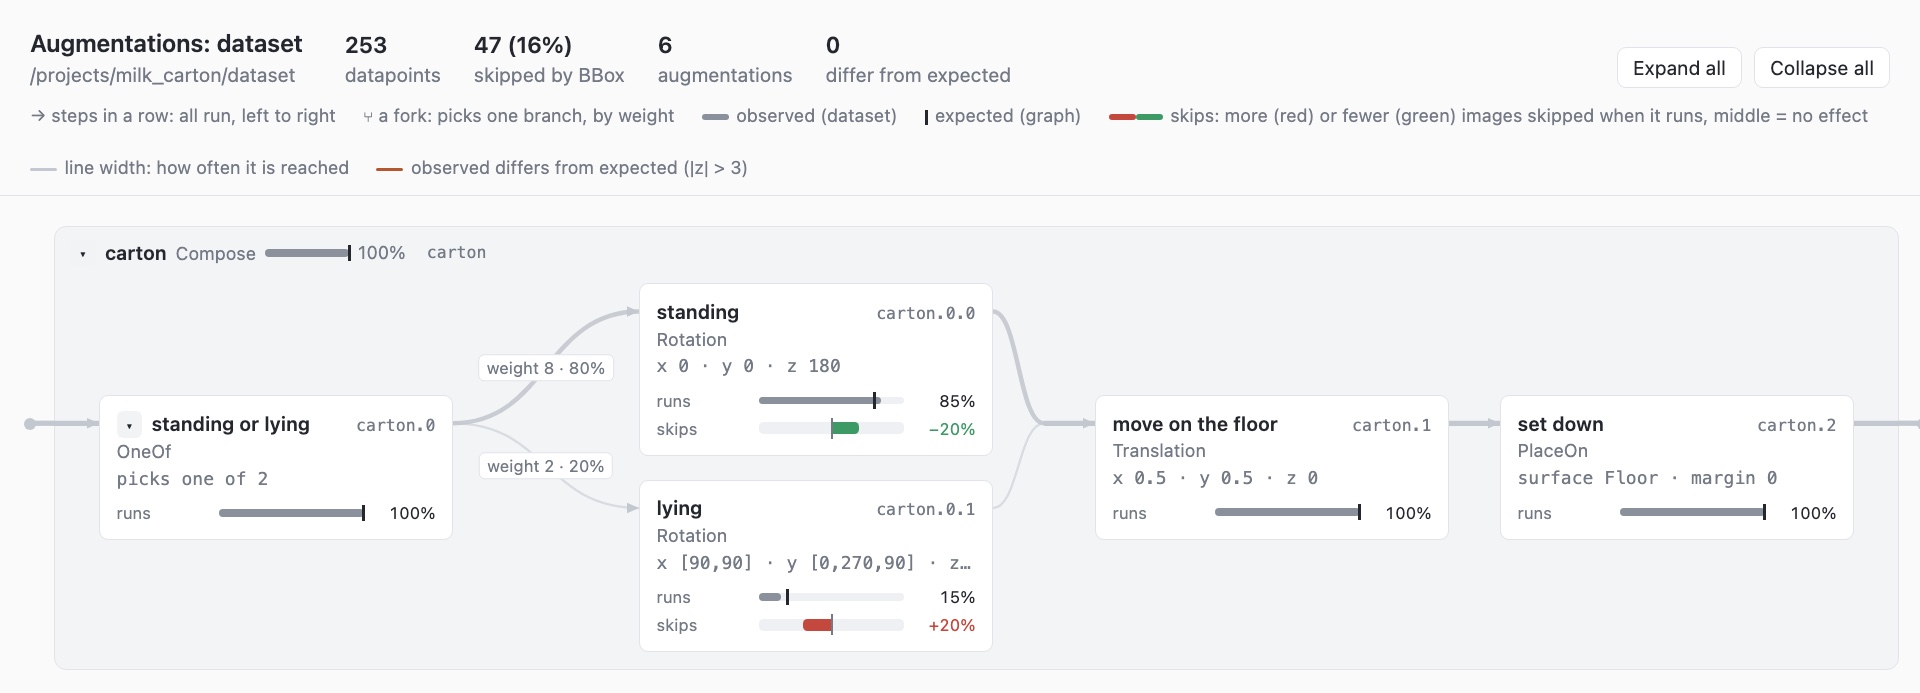
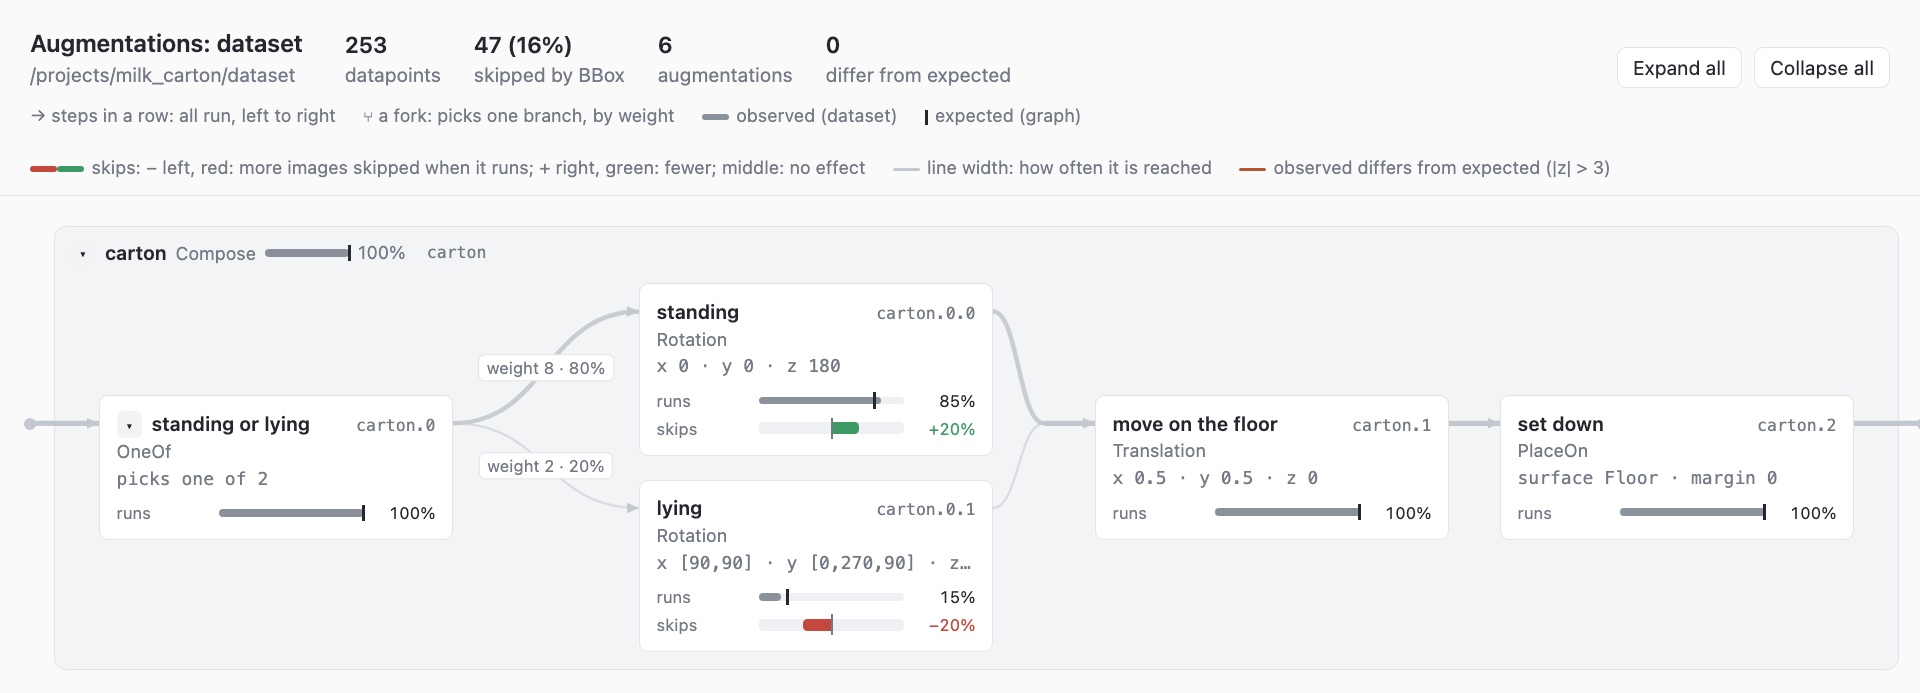
Report: skips signed like a number line, minus on the left
More skips when an augmentation runs is red, to the left, with a minus; fewer is green,
to the right, with a plus. The Quick start report screenshot and its text follow.

diff --git a/blendmentation/export/report.html b/blendmentation/export/report.html
@@ -120,7 +120,7 @@ body.preview .report-only, body:not(.preview) .preview-only, body:not(.skips) .s
   <span>⑂ a fork: picks one branch, by weight</span>
   <span class="report-only"><i style="background: var(--bar)"></i>observed (dataset)</span>
   <span class="report-only"><i class="tick" style="background: var(--tick)"></i>expected (graph)</span>
-  <span class="skips-only"><i style="background: var(--more)"></i><i style="background: var(--fewer); margin-left: -5px"></i>skips: more (red) or fewer (green) images skipped when it runs, middle = no effect</span>
+  <span class="skips-only"><i style="background: var(--more)"></i><i style="background: var(--fewer); margin-left: -5px"></i>skips: − left, red: more images skipped when it runs; + right, green: fewer; middle: no effect</span>
   <span class="preview-only"><i style="background: var(--bar)"></i>probability it runs, per object of a call</span>
   <span><i style="background: var(--edge); height: 2px"></i>line width: how often it is reached</span>
   <span class="report-only"><i style="background: var(--warn); height: 2px"></i>observed differs from expected (|z| &gt; 3)</span>
@@ -175,8 +175,9 @@ function skipRates(s) {
   }
   return {whenRuns, whenNot, differs, ran, notRan};
 }
-// a bar centered on 0: red to the left when the datapoint was skipped more often with the
-// augmentation than without it, green to the right when less often; half the bar is 50 points
+// a bar centered on 0, signed like a number line: red to the left (−) when the datapoint was
+// skipped more often with the augmentation than without it, green to the right (+) when less
+// often; half the bar is 50 points
 const SKIP_SCALE = 0.5;
 function skipBar(rates) {
   const row = document.createDocumentFragment(), diff = rates.whenRuns - rates.whenNot;
@@ -188,7 +189,7 @@ function skipBar(rates) {
     " of the times it didn't" + (rates.differs ? "" : " (within chance)");
   const points = Math.round(Math.abs(diff) * 100);
   row.append(text("span", "label", "skips"), bar,
-             text("span", "num" + (rates.differs ? " " + kind : ""), (diff > 0 ? "+" : diff < 0 ? "−" : "") + points + "%"));
+             text("span", "num" + (rates.differs ? " " + kind : ""), (diff > 0 ? "−" : diff < 0 ? "+" : "") + points + "%"));
   return row;
 }
 function flags(node) {
@@ -563,9 +564,9 @@ function openSkips() {
     }
   }
   panel.append(table, text("div", "note", "A datapoint is skipped as a whole. On a card, the skips bar compares how often the datapoint was " +
-    "skipped when that augmentation ran and when it didn't: red to the left means more skips when it runs (it causes " +
-    "them, so the dataset has less of its results than the graph expects), green to the right fewer, the middle no " +
-    "effect. Faded: within chance."))
+    "skipped when that augmentation ran and when it didn't: red to the left (−) means more skips when it runs (it " +
+    "causes them, so the dataset has less of its results than the graph expects), green to the right (+) fewer, the " +
+    "middle no effect. Faded: within chance."))
   panel.classList.add("open");
 }
 

diff --git a/CLAUDE.md b/CLAUDE.md
@@ -97,7 +97,7 @@ The subpackages:
 - **generating**: the `bpy` layer is `bpy_generating.py` (classes, projection, `Frame`, the step functions, `generate`) and the modules it imports by name (`bpy_ids.render_ids(...)`): `bpy_images.py` (the OpenImageIO import, Render Result / EXR input and output, `PASSES`), `bpy_instances.py` (reading `Instances` from the depsgraph), `bpy_ids.py` (the id renders) and `drawing.py` (numpy only: preview drawing, `FONT`, `CLASS_COLORS`, background noise and compositing). `Compose(steps, path, resolution)` generates one datapoint per call (`preview(factor)` at reduced resolution); it returns `False` when a step skips the datapoint. Files are `<path>/<index>...`, where the index is the next free leading number in the folder (`next_index`), so output can be resumed.
   - **Steps:** `BBox(classes, iou_deconflict=None, max_truncation=None, max_occlusion=None, allow_empty=False)`, `Pose(classes)`, `RotationMatrix(objects)`, `OutputField(name, data_path, objects=None)`, `CameraData()`, `Keypoints(points)`, `Augmentations(composes, graph_file="augmentations.json")`, `Render(file_format="PNG")`, `Background(weights=None, noise_size=(1, 8), images_path=None)`, `BBoxImage(file_format="PNG", line_width=2, show_class=True)`, `AOVToImage(names, file_format="OPEN_EXR", skip_empty=False)`, `Passes(names, file_format="OPEN_EXR", skip_empty=False)`, `Segmentation(classes, per="instance"|"class"|"both", skip_empty=False, full_masks=False)`, `SegmentationImage(file_format="PNG", opacity=0.5, line_width=2, show_class=True)`. Each step takes its own objects; `Compose` has none.
   - **Classes:** `classes` is `{class name: [instances]}`, where an instance is an object or a sublist of objects labeled as one (bbox = union of members, one mask). An `Instances(parent, of)` entry (duck-typed by `is_instances`: `parent` and `of`) expands per frame (`frame.instance_groups`, needs the frame, so `to_instances(classes, frame)`; without a frame it is only checked) into one group per top-level depsgraph instance of `parent` (`instance_members`: `persistent_id` is the path innermost first, padded with `INSTANCE_PATH_END`; its last entry is the top-level instance's `id` attribute when it has one (Distribute Points on Faces adds it), otherwise its index, so while reading, a temporary NODES modifier (`index_id_nodes`) sets `id` to the index; it is removed before any render, so `id`-based randomness is unchanged) whose sources meet `of`. A geometry instance (`instance_object` is the parent: Object Info without As Instance, or nodes after the instancing that edit the meshes, like Smooth by Angle) has no source object; its mesh keeps the source mesh's name, so `read_instance_members` finds the objects using a mesh of that name, and `None` when none does; `instance_groups` raises when `of` matched nothing and some instance has no source. The group holds `InstanceMember`s that stand in for objects (`name`, `type`, `matrix_world`, local `coords` read during the depsgraph iteration, `parent`, `source`, `top`); `in_render` follows the parent. Groups with members can't use the Workbench or Object Index renders (instances share their source's color and pass index), so `frame.ids` / `full_ids` use `render_instance_ids`: Cycles, 1 sample, BOX filter, emission `material_override` (`instance_id_material`) showing the INSTANCER attribute `blendmentation_id` written by a temporary NODES modifier on each parent (`instance_id_nodes`: Sample Index on a temporary LUT mesh object, -1 for unlabeled instances; with `hide_others` it deletes them and the parent's own geometry) or, for plain objects, the OBJECT custom property; with `hide_others` everything without an id is transparent, because hiding a source with `hide_render` also hides its instances in 4.0. In 4.0, nodes keep a socket per data type under one name, so `socket()` picks the enabled one. `to_instances` flattens it to `(class, [objects])` pairs and rejects non-dicts, non-list values, empty sublists and objects in two instances. A class value can also be `{"instances": [...], "iou_deconflict": ..., "max_truncation": ..., "max_occlusion": ...}` (`split_class`); `class_settings` merges these over the `BBox` arguments, the class winning even when it sets None. Segmentation ignores them. For IoU, a pair conflicts when its IoU is over the lower of the two classes' limits (`iou_conflict`). `max_occlusion` (`occlusions`) is 1 - an instance's pixels in the normal id render / its pixels in an id render with every object outside the classes hidden (`hide_render`, restored), so only non-class objects occlude; it runs after the cheap checks and only when some class has a limit.
-  - **Skips:** `bboxes` sets `frame.skip` (`{"reason", "class", "objects", "value", "limit"}`; `iou_conflict` returns the pair, so `class`/`objects` list both) before returning False; `generate` then calls `skipped(frame)` on every step (`Step` no-op, filtered out of the docs), and `Augmentations.skipped` appends `{"skip", "augmentations": record}` to `<path>/skipped.jsonl` (`SKIPPED_FILE`, `record_skip`) and writes the graph. `export.skip_stats` counts it by reason and class, `augmentation_stats` adds `skipped` counts per node and `skipped_observed` per value (`count_records` runs over kept and skipped records), and the report shows the count (click: reasons) and, per card, `skipRates`: how often the datapoint was skipped when the augmentation ran vs when it didn't, per object (from the kept and skipped counts), drawn by `skipBar` as a bar centered on 0: red to the left for more skips when it ran, green to the right for fewer, half the bar = 50 points (`SKIP_SCALE`), faded unless a two-proportion z > 3; no bar when it always runs; per value in the panel.
+  - **Skips:** `bboxes` sets `frame.skip` (`{"reason", "class", "objects", "value", "limit"}`; `iou_conflict` returns the pair, so `class`/`objects` list both) before returning False; `generate` then calls `skipped(frame)` on every step (`Step` no-op, filtered out of the docs), and `Augmentations.skipped` appends `{"skip", "augmentations": record}` to `<path>/skipped.jsonl` (`SKIPPED_FILE`, `record_skip`) and writes the graph. `export.skip_stats` counts it by reason and class, `augmentation_stats` adds `skipped` counts per node and `skipped_observed` per value (`count_records` runs over kept and skipped records), and the report shows the count (click: reasons) and, per card, `skipRates`: how often the datapoint was skipped when the augmentation ran vs when it didn't, per object (from the kept and skipped counts), drawn by `skipBar` as a bar centered on 0, signed like a number line: red to the left (−) for more skips when it ran, green to the right (+) for fewer, half the bar = 50 points (`SKIP_SCALE`), faded unless a two-proportion z > 3; no bar when it always runs; per value in the panel.
   - **`Augmentations`** (stage 0, `record_augmentations`): takes augmentation `Compose`s (one → id `"0"`, a list → `"0"`, `"1"`..., a dict → its names, `augmentation_roots`) and sets `label["augmentations"]` to `graph.record` of each; writes `{"augmentations": [graph.describe(...)]}` to `<path>/<graph_file>` when the text differs (the file has no leading number, so `next_index` and the export ignore it).
   - **`Step`:** every step subclasses `Step` (filtered out of the docs), which has the no-op `check` and `prepare` that `generate` calls on every step; `Compose` raises a `TypeError` for anything else.
   - **Stages:** each step class has a `stage`, and `Compose` sorts by it, so list order doesn't matter. Label steps (0) run first, so a `BBox` skip happens before the beauty render (`max_occlusion` needs two Workbench id renders); then `Background` (1), `Render` (2), `AOVToImage`/`Passes`/`BBoxImage` (3), `Segmentation` (4), `SegmentationImage` (5).

diff --git a/docs/quick-start.md b/docs/quick-start.md
@@ -306,13 +306,13 @@ for _ in range(100):
 export.augmentation_report("//dataset")
 ```
 
-![The report: 253 datapoints, 47 (16%) skipped by BBox; "standing" ran 85% with a green skips bar at -20%, "lying" ran 15% with a red skips bar at +20%](images/augmentations-report.jpg){ .full-width }
+![The report: 253 datapoints, 47 (16%) skipped by BBox; "standing" ran 85% with a green skips bar at +20%, "lying" ran 15% with a red skips bar at −20%](images/augmentations-report.jpg){ .full-width }
 
 The grey bars are what the dataset got, and the ticks what the preview expected. Here
 `BBox` skipped 47 of the 300 datapoints (click the number for the reasons, here all cut by
-the frame). A lying carton is wider, so the frame cuts it more often: its skips bar is red
-(images were skipped 20% more often when it lay), standing's is green, and the dataset has
-15% lying cartons instead of 20%. A difference larger than chance is marked in orange.
+the frame). A lying carton is wider, so the frame cuts it more often: its skips bar is red,
+to the left, at −20% (images were skipped 20 points more often when it lay), standing's is
+green, to the right, and the dataset has 15% lying cartons instead of 20%. A difference larger than chance is marked in orange.
 `export.augmentation_stats(path)` and `export.skip_stats(path)` give the same numbers in
 Python.
 

diff --git a/CHANGELOG.md b/CHANGELOG.md
@@ -17,9 +17,9 @@ All notable changes to Blendmentation. The format follows
   `export.augmentation_stats` also counts each augmentation in them (`skipped`).
 - `export.augmentation_report` shows the skipped datapoints: their number in the header
   (click it for the reasons and classes) and, on the cards of augmentations that run for
-  some objects and not for others, a "skips" bar centered on 0: red to the left when
-  images were skipped more often when the augmentation ran than when it didn't (e.g.
-  +38%), green to the right when less often, faded when within chance, so the
+  some objects and not for others, a "skips" bar centered on 0: red to the left (e.g.
+  −38%) when images were skipped more often when the augmentation ran than when it
+  didn't, green to the right (+) when less often, faded when within chance, so the
   augmentations that cause skips stand out.
 
 ## [0.10.0] - 2026-10-15
